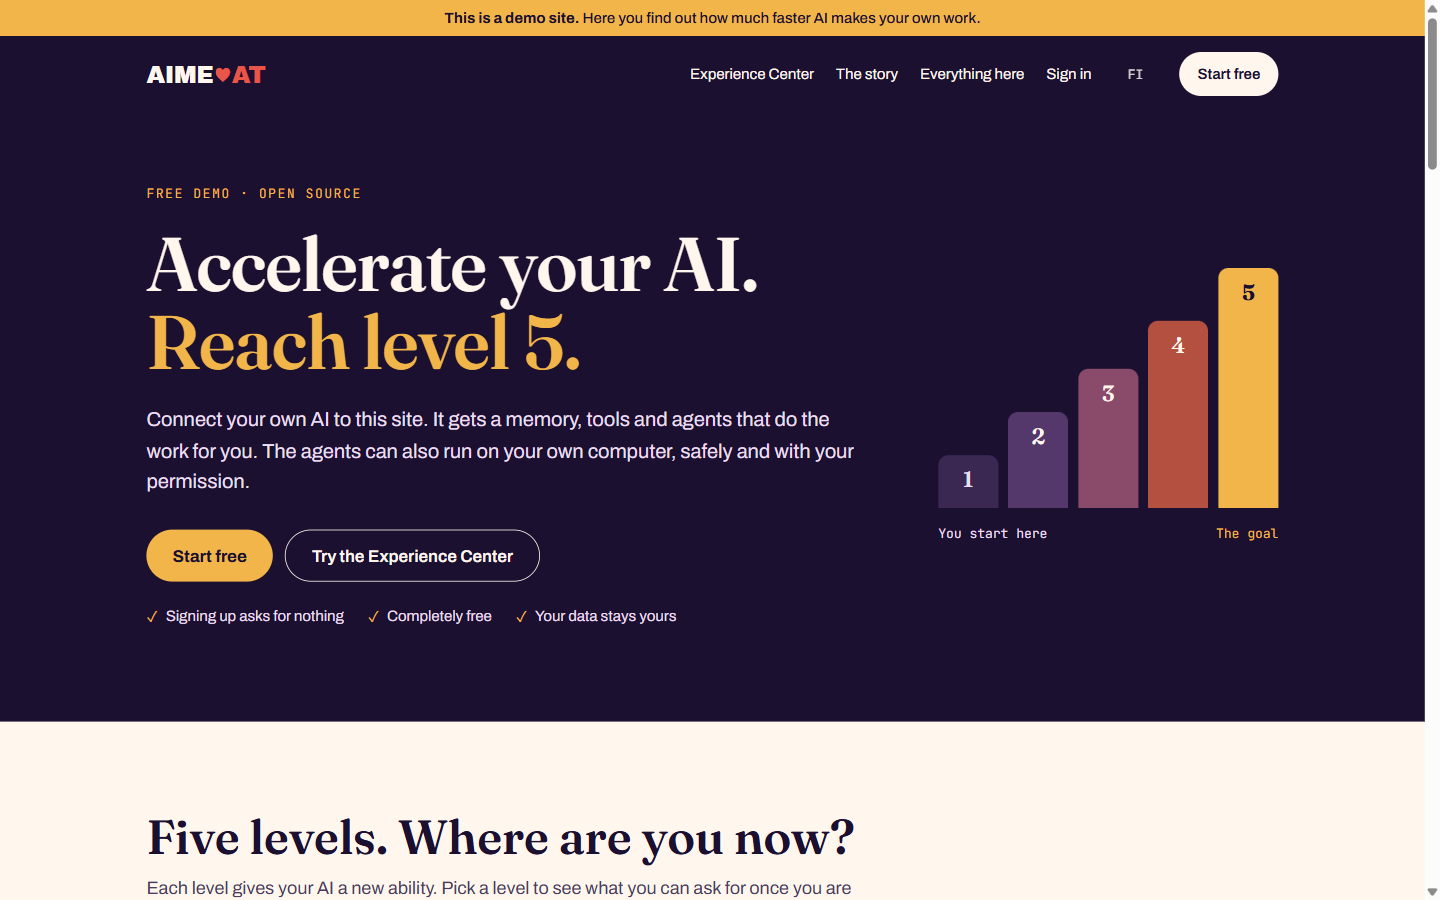
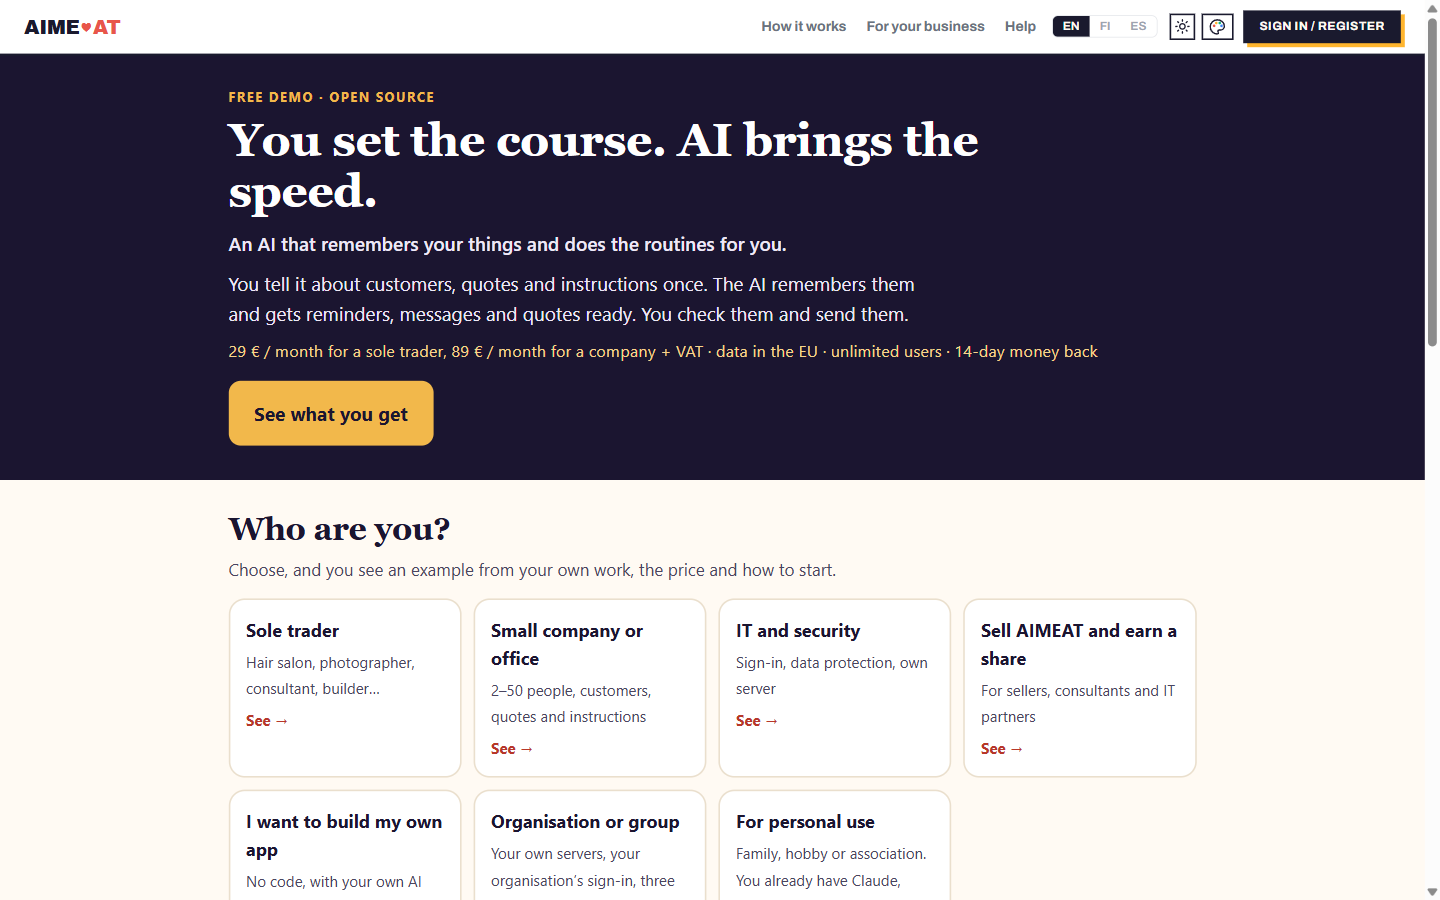
docs(readme): the front page and Connect your AI screenshots are from aimeat.io today
The README front-page shot showed the "Accelerate your AI. Reach level 5." page, which production replaced with "You set the course. AI brings the speed." and a "Who are you?" choice. The Connect your AI shot is re-taken because the top bar changed. Both are from aimeat.io at 1440x900, the same size as before, and the front page's alt text follows.

The chat screenshot stays: on aimeat.io today the node's chat does not start (spawn goose ENOENT), so a new shot would show the error. That is recorded as an incident in Lifecycle Central.

Session: cc-jouni-release-430
Project: aimeat-protocol

diff --git a/README.md b/README.md
@@ -17,7 +17,7 @@ Claude, ChatGPT, Cursor or another AI remembers your work from one conversation 
 AIMEAT began at the end of February 2026 as the AI Memory Exchange and Action Transfer, and has grown far past that since. It is open source under the MIT licence. It runs on [aimeat.io](https://aimeat.io/), on your own server, or on your own computer.
 
 <p align="center">
-  <img src="https://raw.githubusercontent.com/miikkij/aimeat-protocol/main/assets/screenshots/portal-landing.png" alt="The aimeat.io front page: Accelerate your AI. Reach level 5., with Start free and Try the Experience Center buttons beside five steps from where you start to the goal" width="820" />
+  <img src="https://raw.githubusercontent.com/miikkij/aimeat-protocol/main/assets/screenshots/portal-landing.png" alt="The aimeat.io front page: You set the course. AI brings the speed., an AI that remembers your things and does the routines for you, the prices, and a Who are you? choice from sole trader to personal use" width="820" />
 </p>
 
 **Try it first, without an account.** The [Experience Center](https://experience-center.apps.aimeat.io/) is a free tour in English, Finnish and Spanish. It shows what AIMEAT gets done, with examples from real apps, and gives you steps to try with your own AI as you go.
